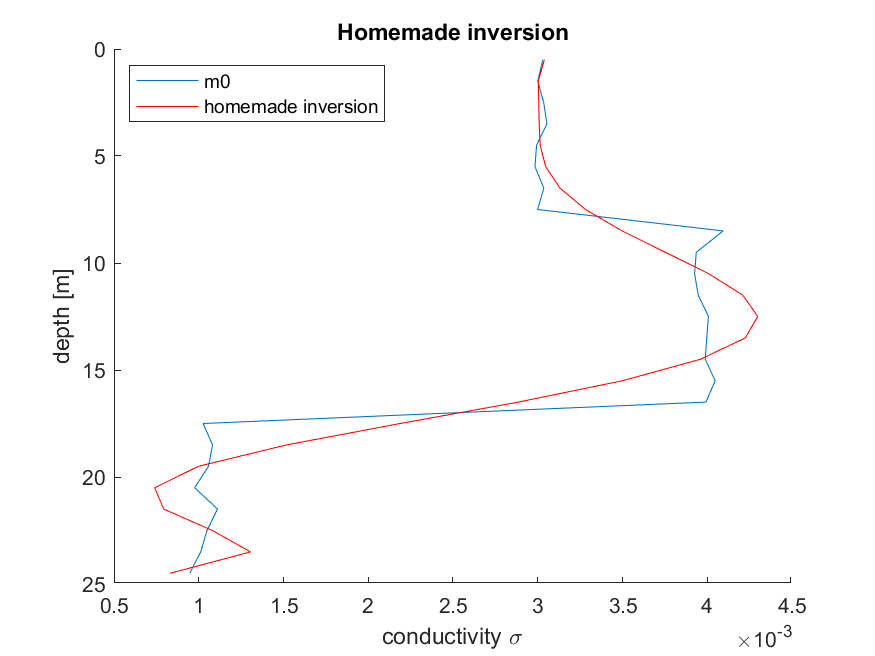
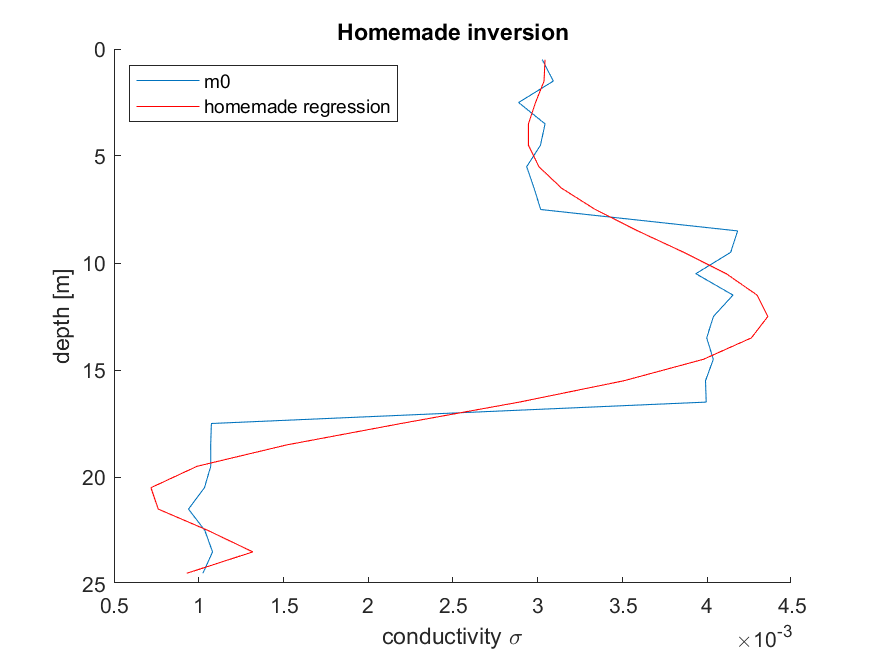
update regression

diff --git a/matlab_models/EM_forward_model_anhorn.m b/matlab_models/EM_forward_model_anhorn.m
@@ -61,18 +61,24 @@ end
 % giving sigma_a
 % ///////////////////////////////////////
 
-coilspace = [3 4 5 6 7 8 9 10 12 15 20]; % coil spacing [m]
+coilspace = 1; % coil spacing [m]
 z1 = 10; z2 = 20; % depth [m]
 
 sigma_a_h = sig1*(1-rh(z1, coilspace)) + sig2*(rh(z1, coilspace) - rh(z2, coilspace)) + sig3*rh(z2, coilspace);
 % disp('horizontal sigma a = '); disp(sigma_a_h);
 sigma_a_v = sig1*(1-rv(z1, coilspace)) + sig2*(rv(z1, coilspace) - rv(z2, coilspace)) + sig3*rv(z2, coilspace);
-% disp('vertical sigma a = '); disp(sigma_a_v);
+disp('vertical sigma a = '); disp(sigma_a_v);
 sigma_a_tot = [sigma_a_h sigma_a_v];
-% disp('total sigma a = '); disp(sigma_a_tot)
+disp('total sigma a = '); disp(sigma_a_tot)
+
+% /////////////////////////////////////////////
+% Inversion using sigma_a
+% /////////////////////////////////////////////
+
+% to finish
 
 % //////////////////////////////////////////////
-% Inversion
+% Polynomial regression
 % //////////////////////////////////////////////
 
 % setting up x and y
@@ -103,7 +109,7 @@ plot(x, y)
 plot(y1, y, 'r')
 % xlim([-0.001 0.015])
 % ylim([-5 55])
-legend('m0', 'homemade inversion', 'location', 'northwest')
+legend('m0', 'homemade regression', 'location', 'northwest')
 xlabel('conductivity \sigma')
 ylabel('depth [m]')
 title('Homemade inversion')
@@ -173,6 +179,7 @@ yfit_SVM = predict(model_SVM,x);
 
 function Rh = rh(prof, coilspacing)
     Rh = 1./((4.*(prof./coilspacing).^2+1.^(1/2)-2.*(prof./coilspacing)));
+    disp(Rh)
 end
 function Rv = rv(prof, coilspacing)
     Rv = 1./((4.*(prof./coilspacing).^2+1.^(1/2)));
